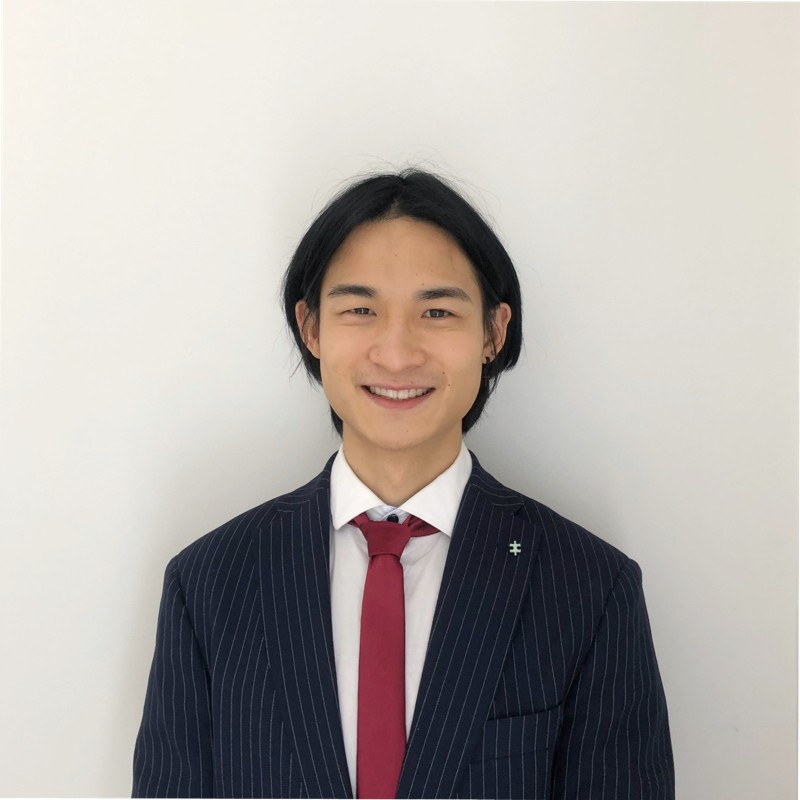
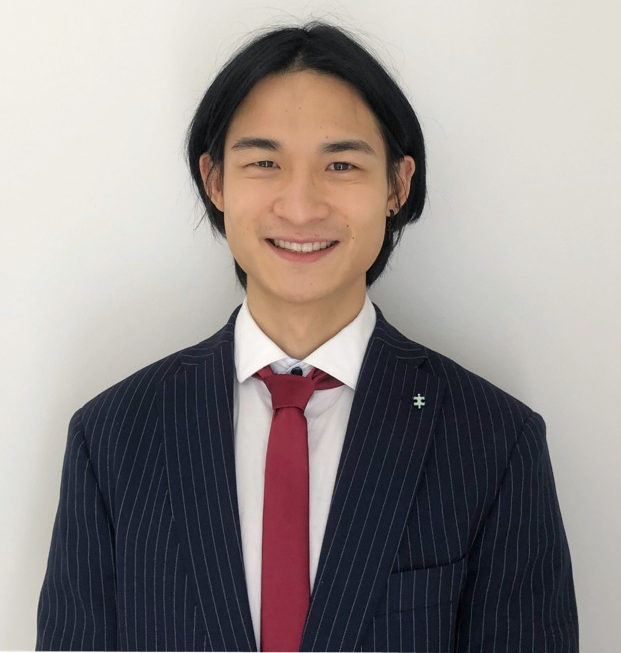
update photo

diff --git a/_pages/about.md b/_pages/about.md
@@ -4,8 +4,7 @@ title: About me
 permalink: /about/
 ---
 <p align="center">
-    <img src="../images/my_photo.png" width="200" height="200">
-  </a>
+    <img src="../images/my_photo.png" width="150" height="150">
 </p>
 
 <center> Hi, I'm Michael. My research interest is developing AI application for Software Engineering. Feel free to contact me about my previous research or potential collaboration, I'm very happy to help. </center>
